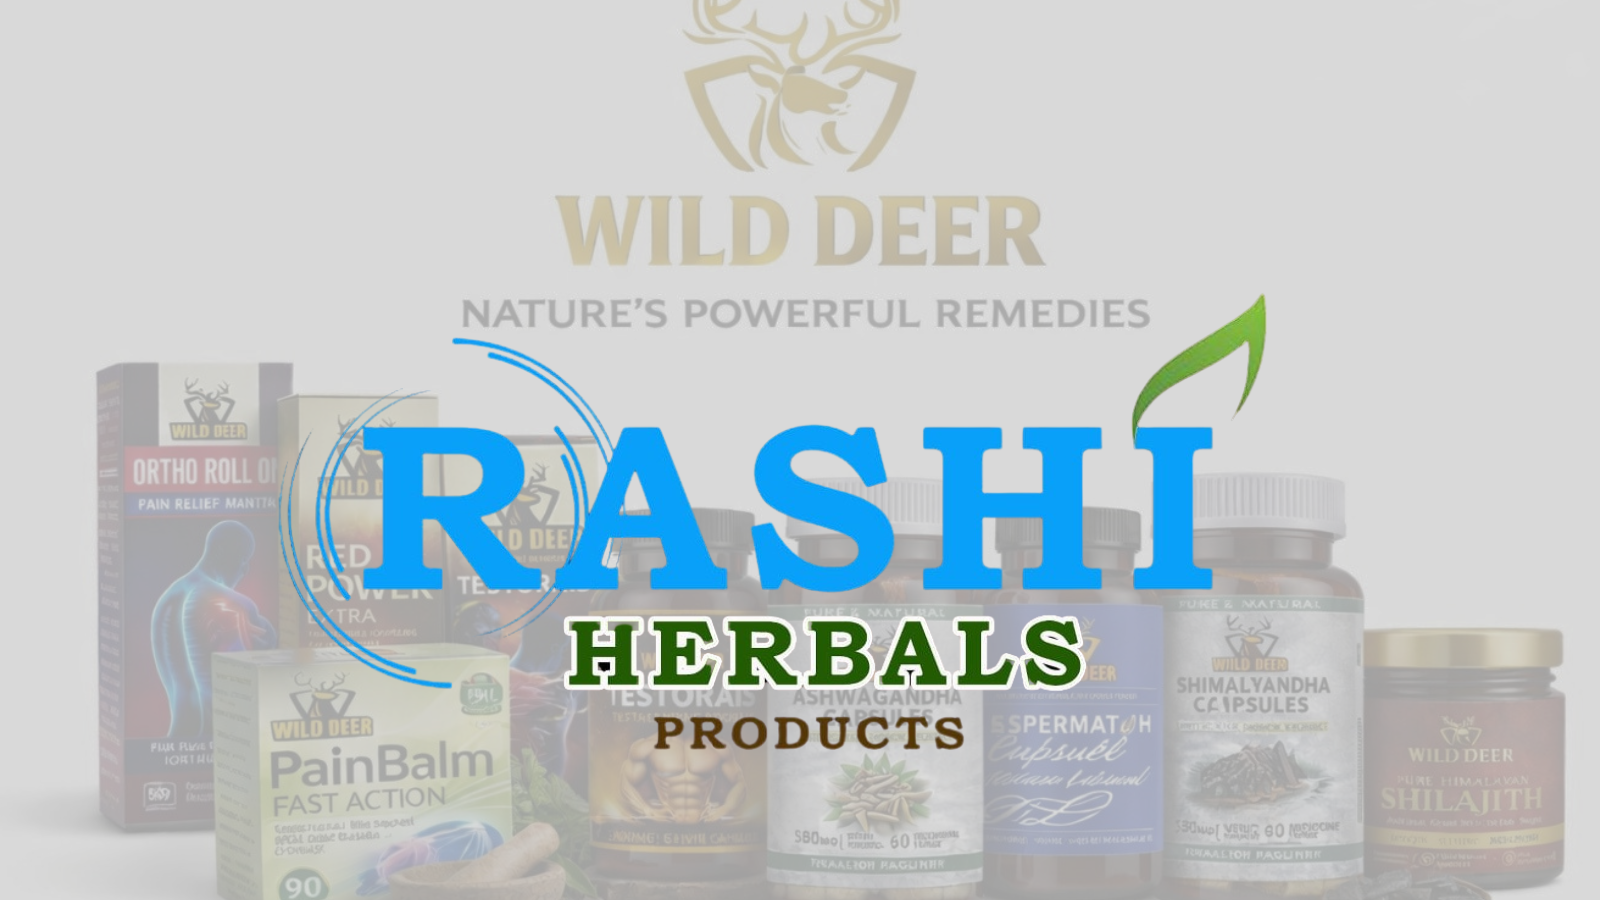
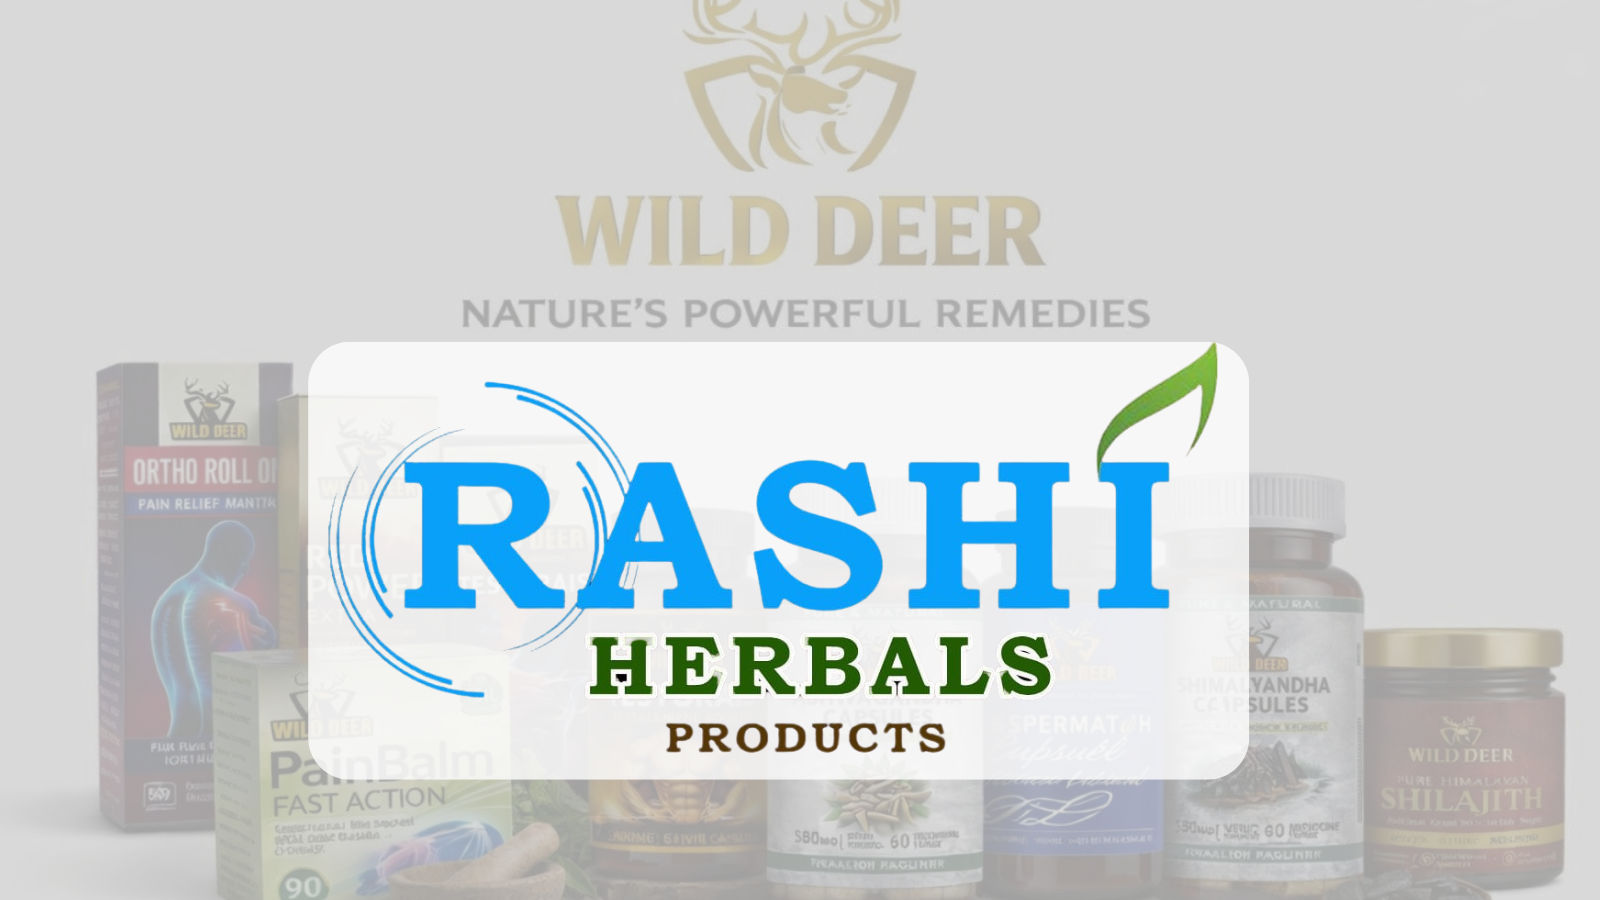
Changed image views and background

Changed region(s): [[0.1562, 0.3111, 0.8125, 0.8711]]

diff --git a/src/app/App.tsx b/src/app/App.tsx
@@ -52,7 +52,7 @@ export default function App() {
     }
   ];
   const [view, setView] = useState<'home' | 'catalog'>('home');
-
+  const [selectedProduct, setSelectedProduct] = useState(null);
    useEffect(() => {
     window.scrollTo({
       top: 0,
@@ -92,7 +92,13 @@ export default function App() {
           <div className="absolute inset-0 bg-black/10" />
         </div>
         <div className="max-w-7xl mx-auto text-center relative z-10">
-          <img src={rashiHerbalsImage} alt="Rashi Herbals" className="mx-auto mb-8 w-full max-w-md" />
+          <div className="mx-auto mb-8 w-fit bg-white/80 shadow-lg p-6 rounded-2xl">
+  <img
+    src={rashiHerbalsImage}
+    alt="Rashi Herbals"
+    className="w-full max-w-md"
+  />
+</div>
           <div className="flex flex-wrap justify-center gap-4 mb-12">
             <div className="flex items-center gap-2 bg-white px-6 py-3 rounded-full shadow-md">
               <Shield className="w-5 h-5 text-green-600" />
@@ -120,12 +126,12 @@ export default function App() {
 
             <div className="grid grid-cols-1 md:grid-cols-2 lg:grid-cols-4 gap-6">
               {products.slice(0, 4).map((product) => (
-                <div key={product.id} className="bg-white rounded-2xl shadow-lg overflow-hidden hover:shadow-xl transition-shadow border border-green-100">
-                  <div className="h-40 overflow-hidden bg-gray-100">
+                <div key={product.id} onClick={() => setSelectedProduct(product)} className="bg-white rounded-2xl shadow-lg overflow-hidden hover:shadow-xl transition cursor-pointer border border-green-100">
+                  <div className="bg-gray-100 aspect-square flex items-center justify-center p-4">
                     <ImageWithFallback
                       src={product.image}
                       alt={product.name}
-                      className="w-full h-full object-cover hover:scale-105 transition-transform duration-300"
+                      className="max-w-full max-h-full object-contain hover:scale-105 transition-transform duration-300"
                     />
                   </div>
                   <div className="p-4">
@@ -222,7 +228,7 @@ export default function App() {
                   <ImageWithFallback
                     src={product.image}
                     alt={product.name}
-                    className="w-full h-full object-cover"
+                    className="max-h-full max-w-full object-contain"
                   />
                 </div>
                 <div className="flex-1">
@@ -277,7 +283,60 @@ export default function App() {
       </section>
       </>
       )}
+{selectedProduct && (
+  <div className="fixed inset-0 bg-black/60 z-50 flex items-center justify-center p-4">
 
+    <div className="bg-white rounded-2xl max-w-4xl w-full max-h-[90vh] overflow-y-auto relative">
+
+      {/* Close Button */}
+      <button
+        onClick={() => setSelectedProduct(null)}
+        className="absolute top-4 right-4 text-gray-600 hover:text-black text-xl"
+      >
+        ✕
+      </button>
+
+      <div className="grid md:grid-cols-2 gap-8 p-8">
+
+        {/* Image */}
+        <div className="flex items-center justify-center bg-gray-100 rounded-xl p-6">
+          <img
+            src={selectedProduct.image}
+            alt={selectedProduct.name}
+            className="max-h-[400px] object-contain"
+          />
+        </div>
+
+        {/* Details */}
+        <div>
+          <h2 className="text-3xl font-bold mb-3">
+            {selectedProduct.name}
+          </h2>
+
+          <p className="text-gray-700 mb-4">
+            {selectedProduct.description}
+          </p>
+
+          <h4 className="font-semibold mb-2">Benefits:</h4>
+
+          <ul className="space-y-2 mb-6">
+            {selectedProduct.benefits.map((b, i) => (
+              <li key={i} className="flex gap-2">
+                <Check className="w-5 h-5 text-green-600" />
+                {b}
+              </li>
+            ))}
+          </ul>
+
+          <p className="text-3xl font-bold text-green-600">
+            {selectedProduct.price}
+          </p>
+        </div>
+
+      </div>
+    </div>
+  </div>
+)}
       {/* Footer */}
 <footer className="bg-gray-900 text-white py-12 px-4 sm:px-6 lg:px-8">
   <div className="max-w-7xl mx-auto text-center">
